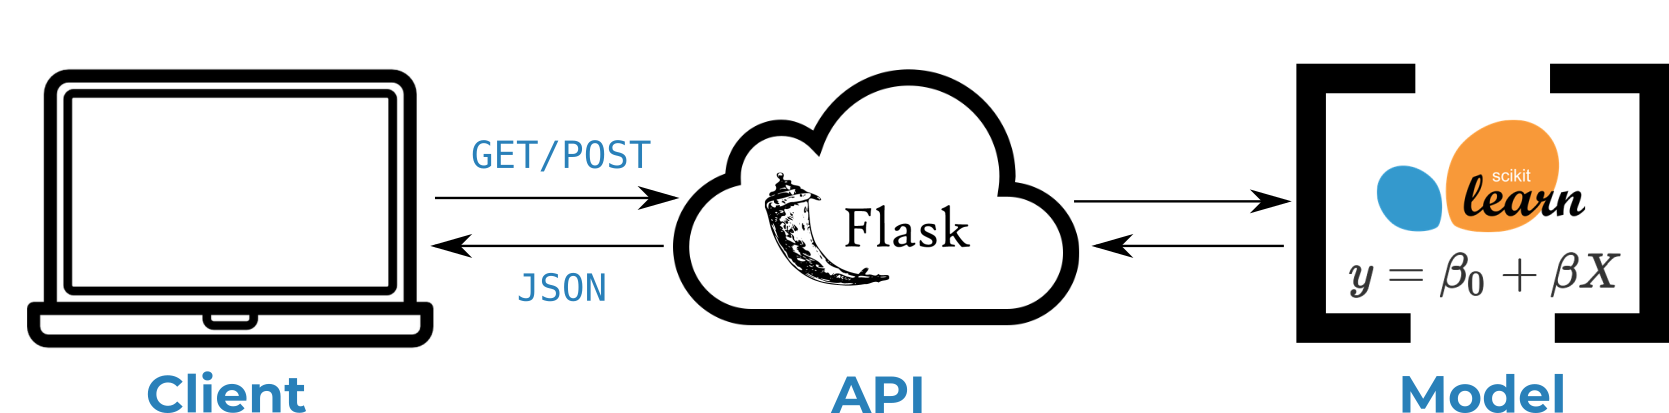
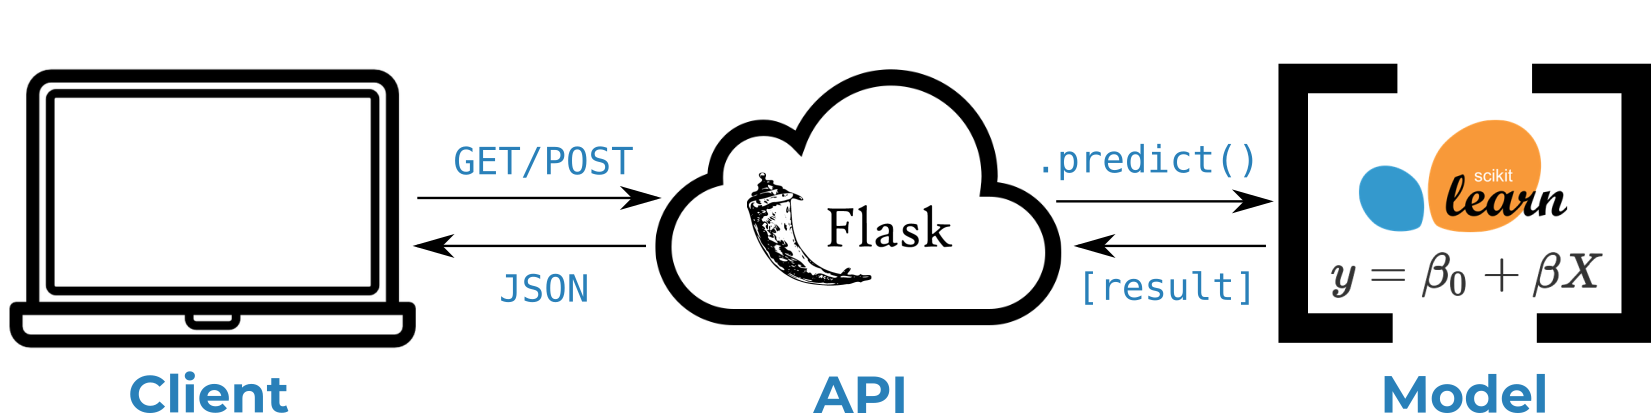
Updated README.md instructions

diff --git a/README.md b/README.md
@@ -1,12 +1,74 @@
-# EDSA Regression Predict
-## Simple Model API
+# Flask-based Model API
+#### EXPLORE Data Science Academy Regression Predict
 
-### Overview
+## 1) Overview
+
+This repository forms the basis of *Task 2* for the **Regression Predict** within EDSA's Data Science course. It hosts template code which will enable students to deploy their own developed models through a web server-based API.   
+
+#### 1.1) Wait, what is an API again?
+
+[![What is an API](assets/imgs/What_is_an_API.png)]('https://youtu.be/s7wmiS2mSXY')
+
+An API - or Application Programming Interface - refers to a set of procedures and protocols that allows us to send and request information between ourselves and remote applications. You can think of this as a channel of communication to a remote server using specific commands that allow you to use their applications without needing to host that functionality yourself. Many types of API's exist, but for this predict task we are interested specifically in Web API's. These allow us to send and receive information using web development languages, such as HTML and JSON. The video above provides a simple and intuitive explanation of how API's operate.
+
+#### 1.2) How our API will work
 
 ![Flask Web-server](assets/imgs/API.png)
 
-### Instructions for Using this Repo within the Predict
+##### Description of files
+
+Several files within this repository enable the correct functioning of our API. We provide a high-level description of these salient files within the table below:
+
+| File Name              | Description                                                                          |
+| :--------------------- | :--------------------                                                                |
+| `api.py`               | Flask web server application definition and instantiation.                           |
+| `model.py`             | Contains helper functions to separate model specific code from our API definition.   |
+| `utils/request.py`     | Simple script to simulate a POST request sent to our API.                            |
+| `utils/train_model.py` | Code used to train the simple model used for demonstration of the API's functioning. |
+
+## 2) Usage Instructions
+
+#### 2.1) Creating a copy of this repo
+
+| :zap: WARNING :zap: |
+|:--------------------|
+|Do **NOT** *clone* this repository. Instead follow the instructions in this section to *fork* the repo.|
+
+As described within the Predict instructions for the Regression Sprint, this code represents a *template* from which you can base your own model's API. As such, in order to modify the template to serve your own model (and the associated code changes which are required for this), you will need to **[fork](https://help.github.com/en/github/getting-started-with-github/fork-a-repo)** this repository. Failing to do this will lead to complications when trying to work on the API remotely.
+
+![Fork Repo](assets/imgs/fork_repo.png)  
+
+To fork the repo, simply ensure that you are logged into your GitHub account, and then click on the 'fork' button at the top of this page as indicated within the figure above.
+
+
+#### 2.2) Running the API on your local machine
+
+As a first step to becoming familiar with our API's functioning, we recommend setting up a running instance on your own local machine. To do this, follow the steps below using your forked repo:
+
+ 1. Ensure that you have the prerequisite Python libraries installed:
+
+ ```bash
+ pip install -U flask numpy pickle json pandas scikit-learn
+ ```
+
+ 2. Clone the forked repo to your local machine.
+
+ ```bash
+ git clone https://github.com/{your-account-name}/regression-predict-api-template.git
+ ```  
+
+ 3. Navigate
+
+#### 2.3) Running the API on a remote AWS EC2 instance
+
+#### 2.4) Updating the API to use your own model
+
+
 
 ### FAQ
+
+This section of the repo will be periodically updated to represent common questions which may arise around its use. If you detect any problems/bugs, please [create an issue](https://help.github.com/en/github/managing-your-work-on-github/creating-an-issue) and we will do our best to resolve it as quickly as possible.
+
+We wish you all the best in your learning experience :rocket:
 
 ![Explore Data Science Academy](assets/imgs/EDSA_logo.png)
